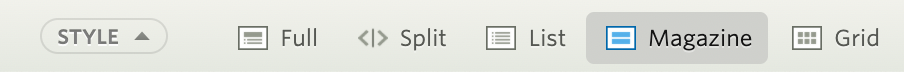
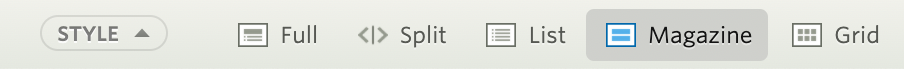
Fixing bad instrumentation on mongo and redis logs.

diff --git a/utils/mongo_raw_log_middleware.py b/utils/mongo_raw_log_middleware.py
@@ -27,6 +27,7 @@ class MongoDumpMiddleware(object):
             # save old methods
             setattr(MongoClient, '_logging', True)
             if hasattr(MongoClient, '_send_message_with_response'):
+                connection.queriesx = []
                 MongoClient._send_message_with_response = \
                         self._instrument(MongoClient._send_message_with_response)
                 MongoReplicaSetClient._send_message_with_response = \

diff --git a/utils/redis_raw_log_middleware.py b/utils/redis_raw_log_middleware.py
@@ -19,6 +19,7 @@ class RedisDumpMiddleware(object):
         if not getattr(Connection, '_logging', False):
             # save old methods
             setattr(Connection, '_logging', True)
+            connection.queriesx = []
             Connection.pack_command = \
                     self._instrument(Connection.pack_command)
 
